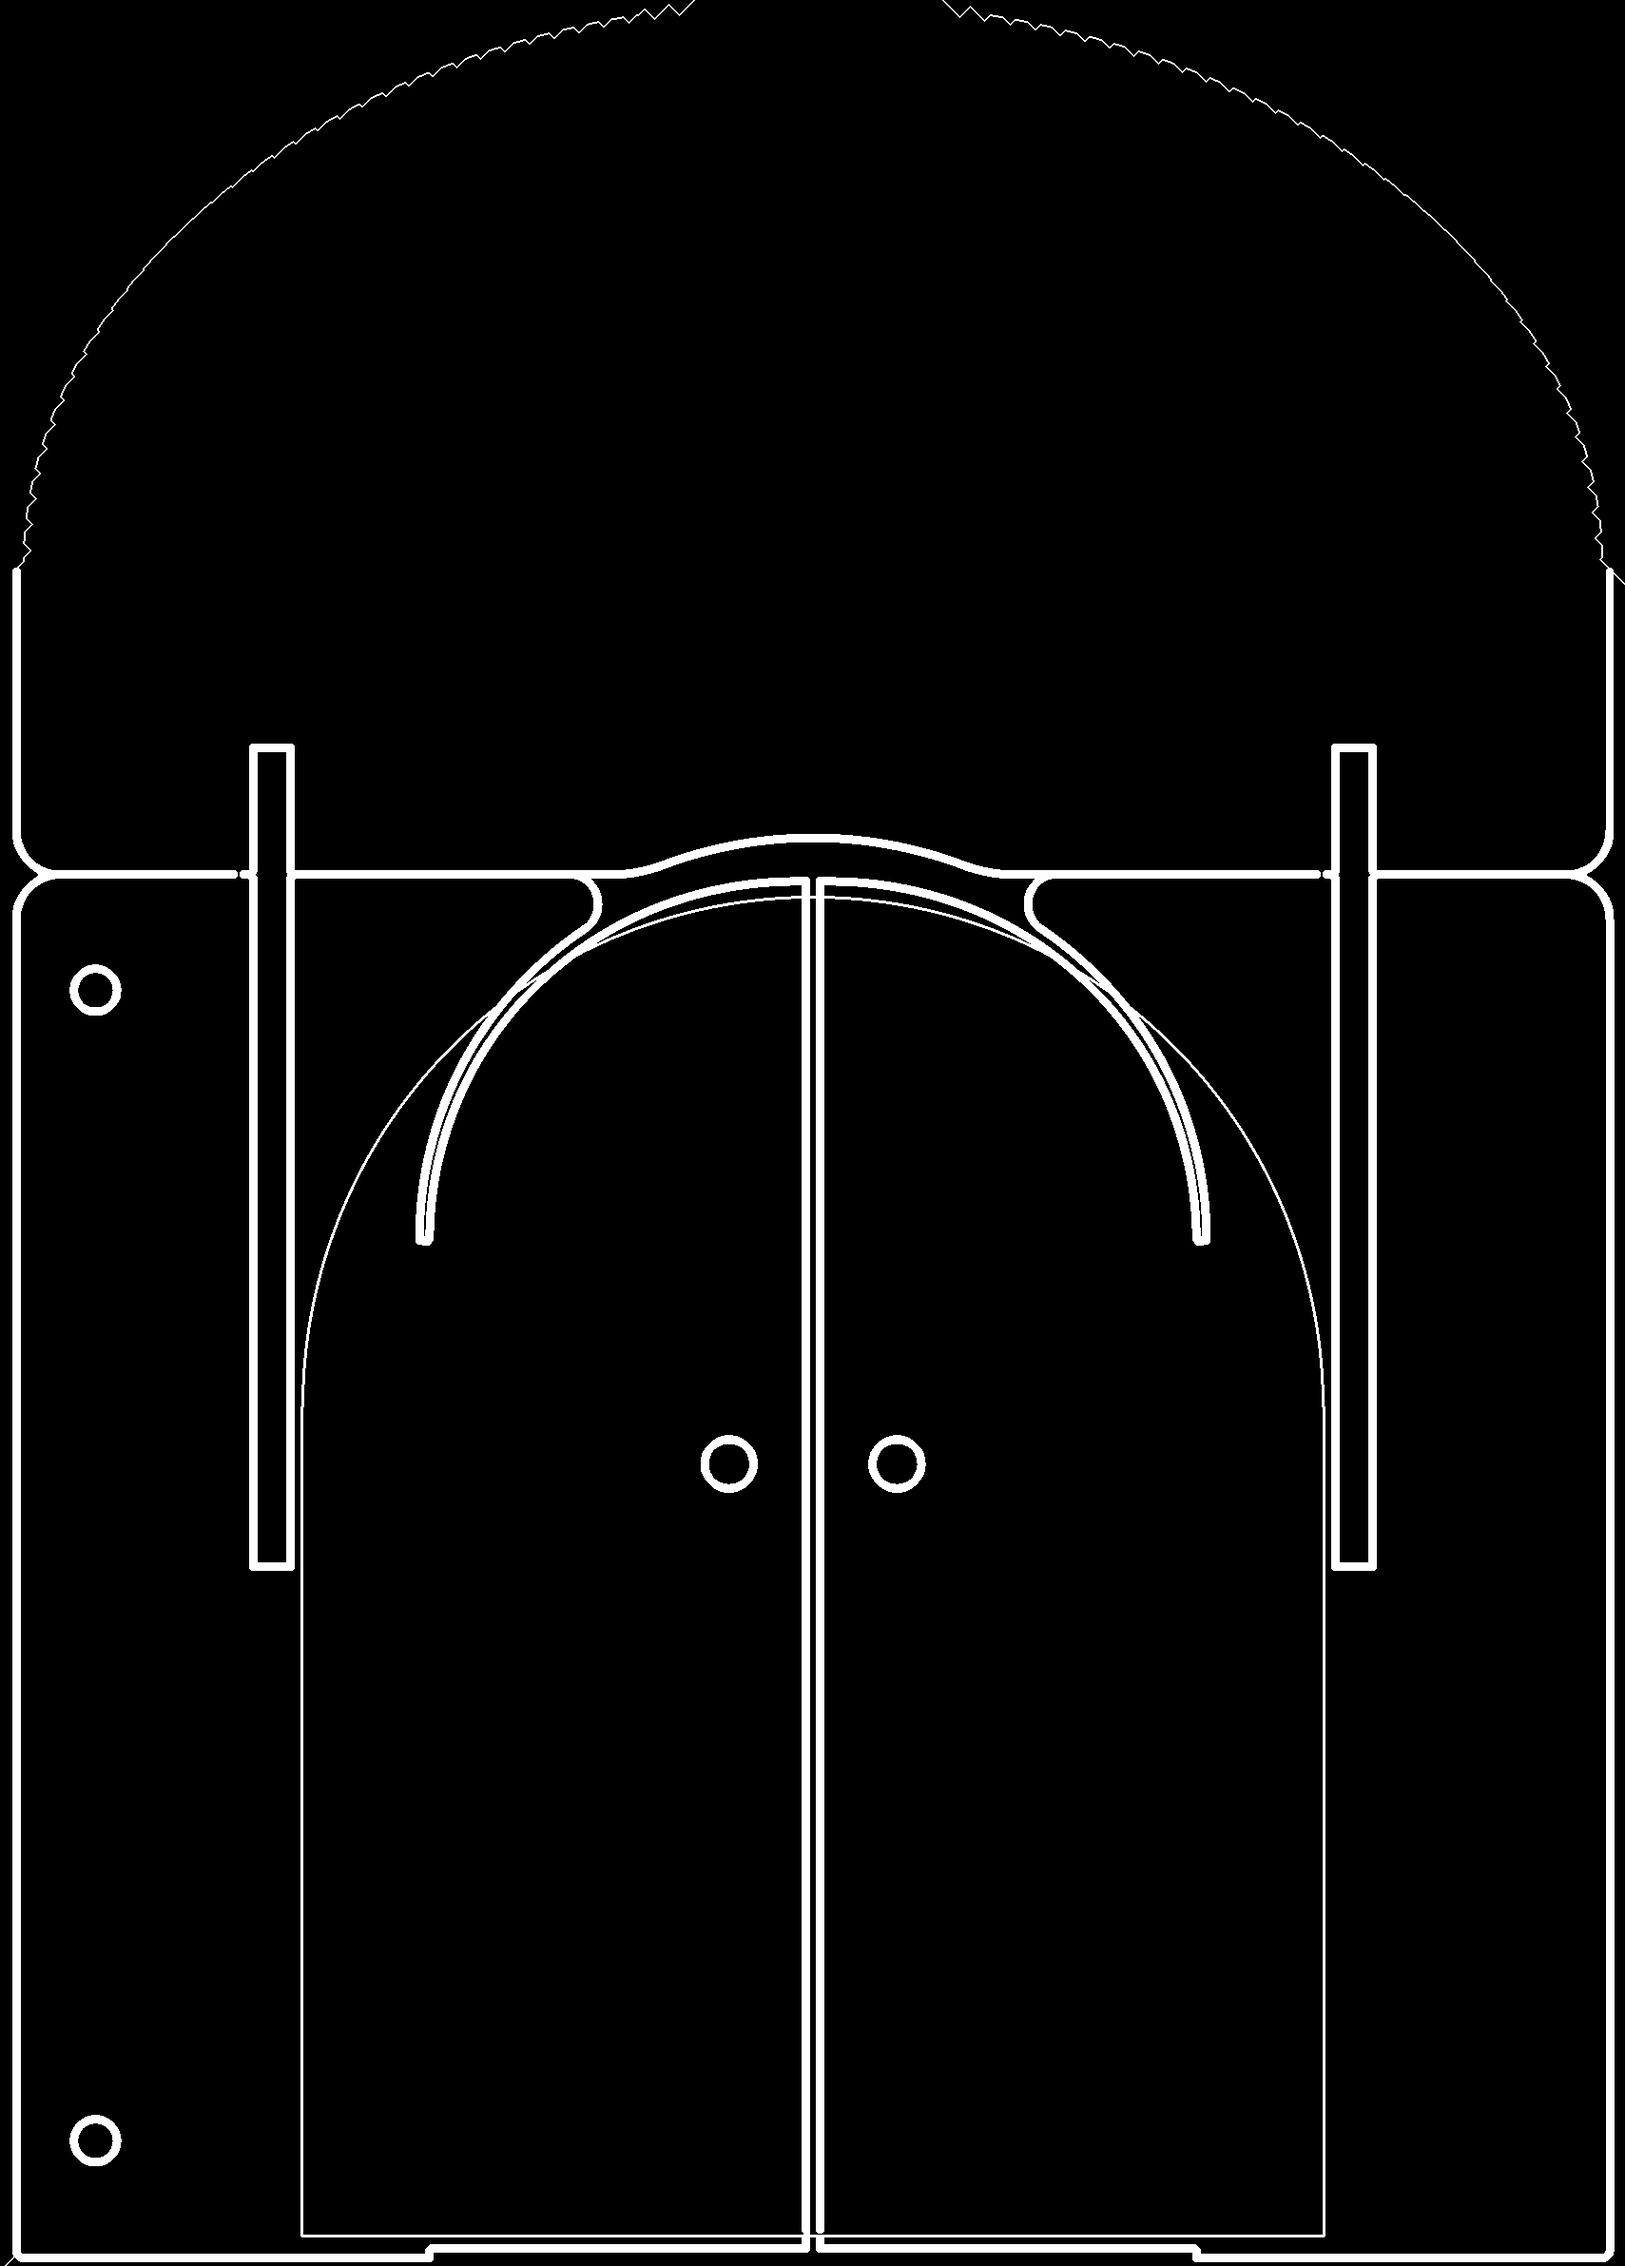
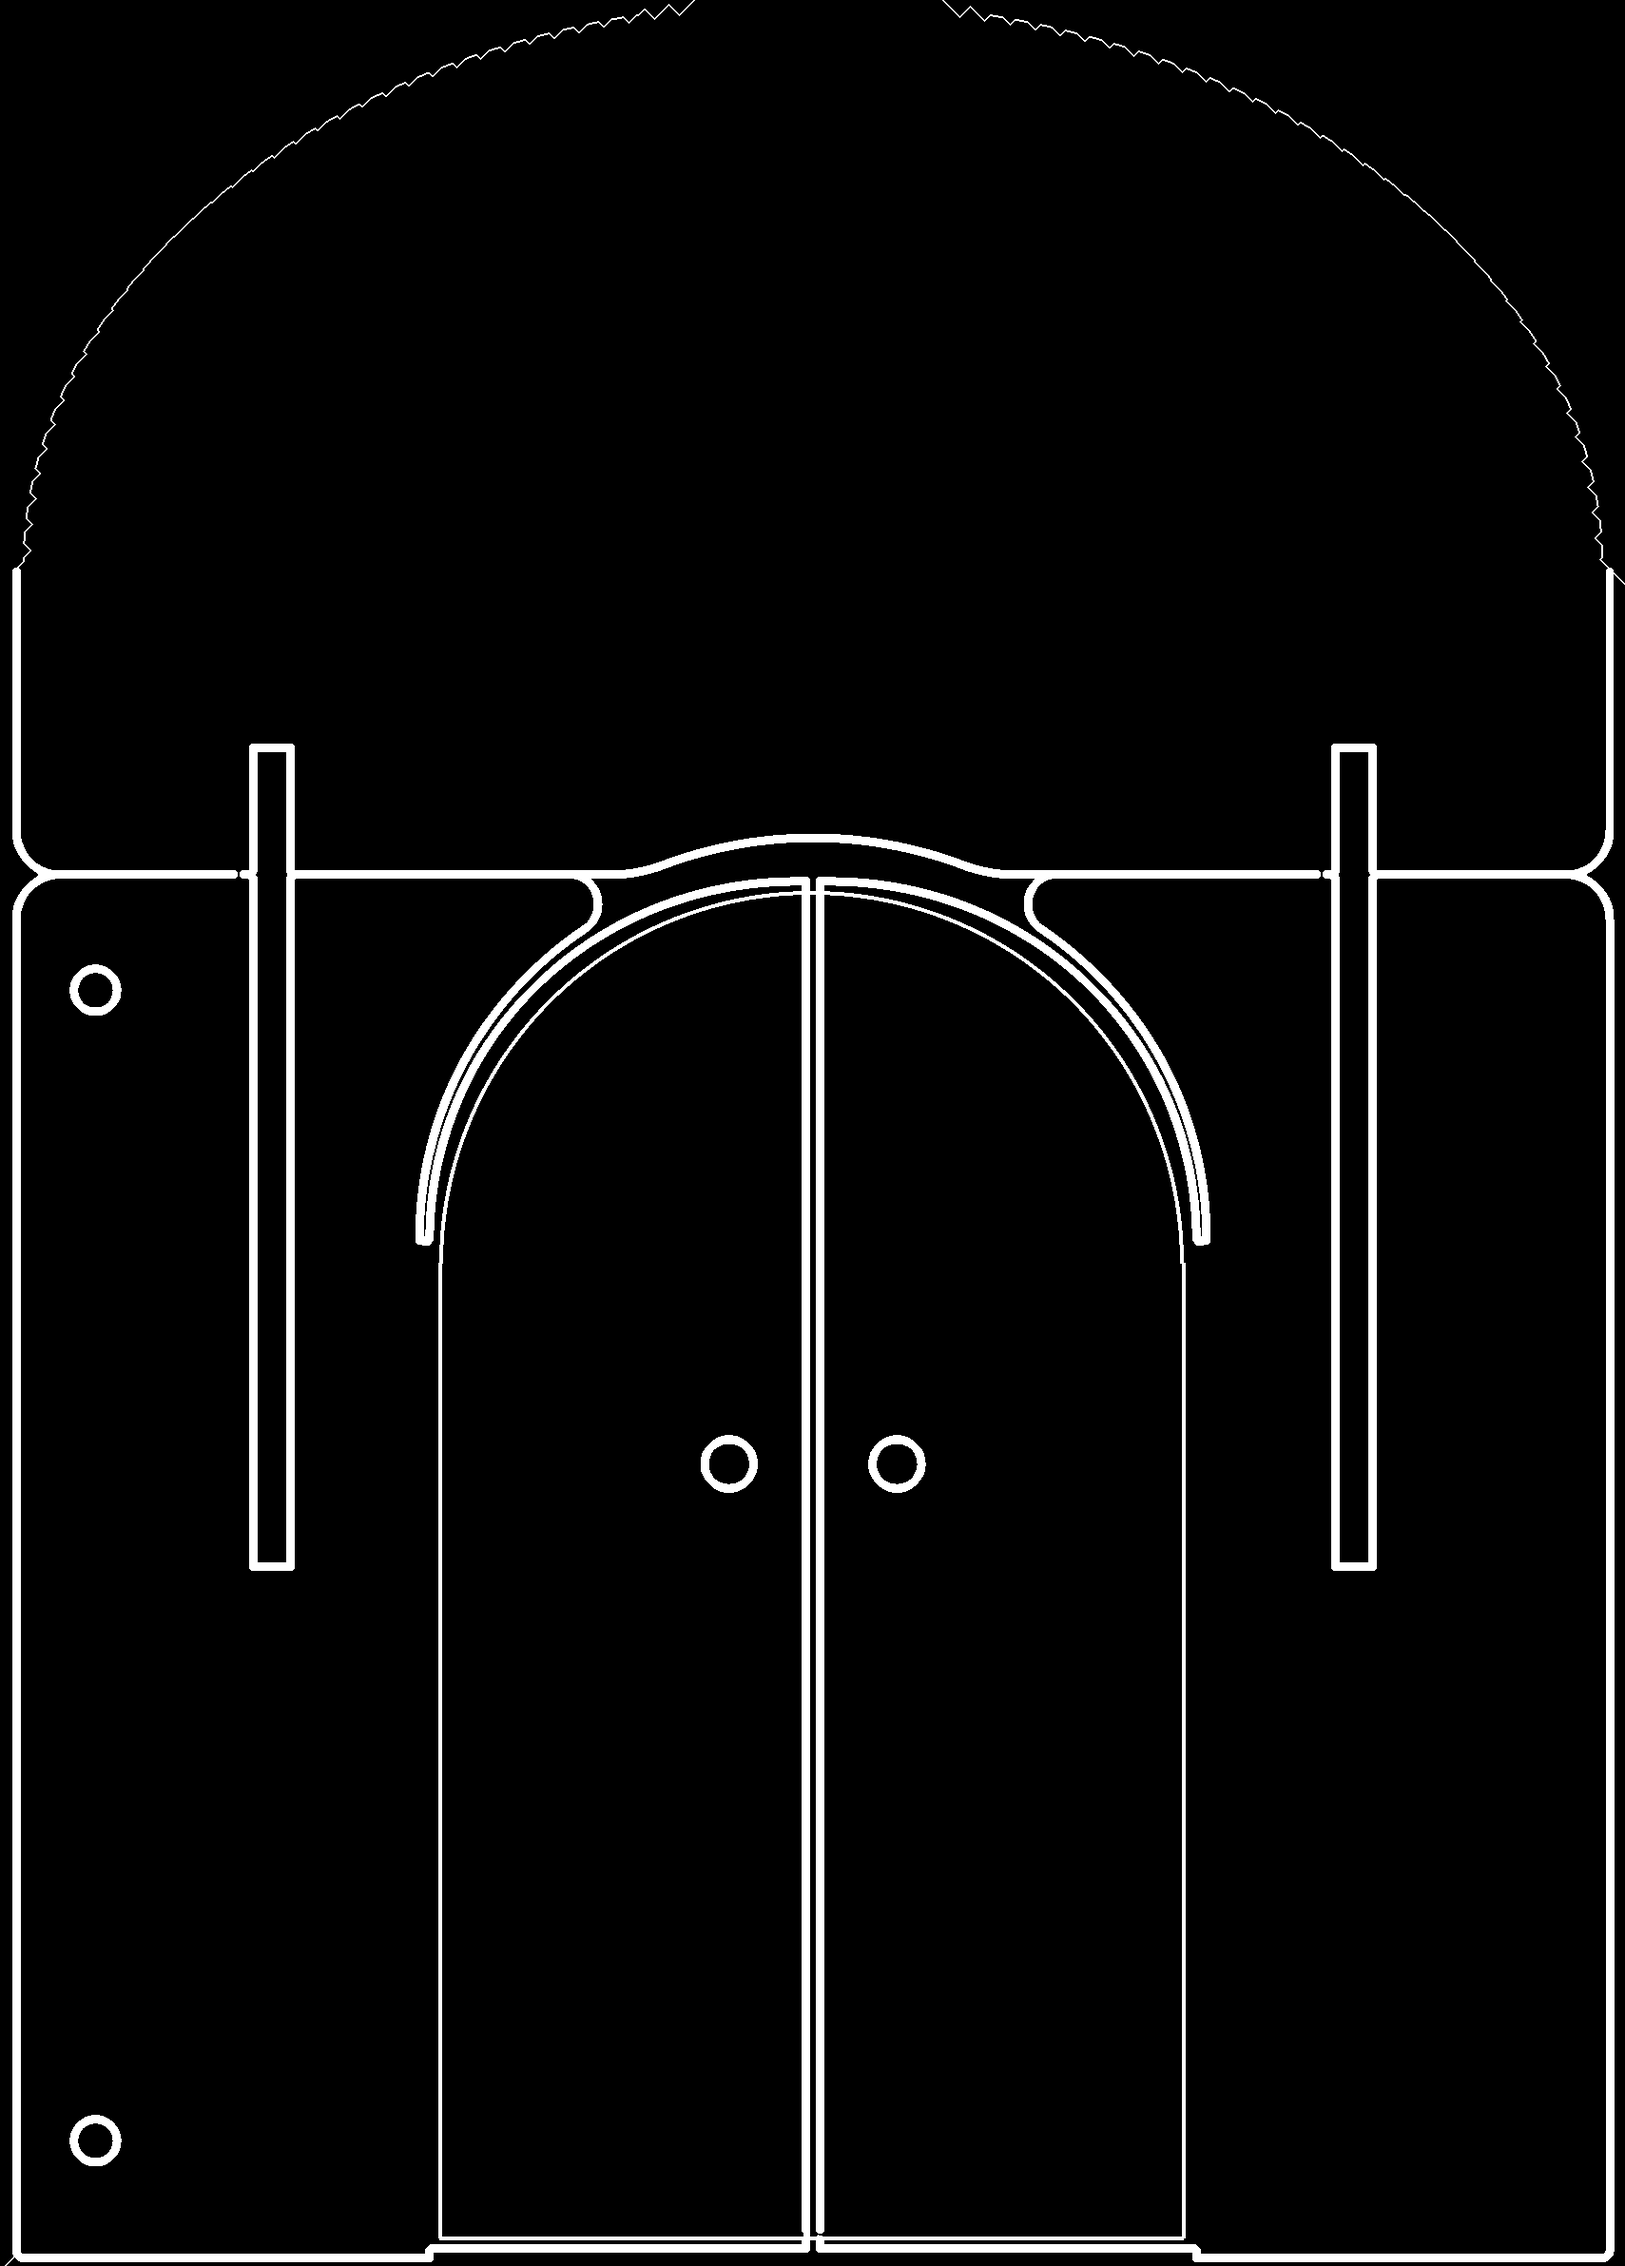
true door anchor: trace the template's orange path, not a synthetic bbox arch
r16c root cause: master_spec.py's dash-fix substituted an invented
bbox+semicircle anchor, inflated by stray edge dashes (x 0.186-0.815 vs true
0.263-0.736); all rounds since r13 generated AND validated against it.
Now: largest connected orange component + analytic arc/line fit, verified
pixel-on-pixel vs the template (anchor-verify.png). Binding rule added:
reconstructed geometry must be source-verified before use.

diff --git a/scripts/master_spec.py b/scripts/master_spec.py
@@ -176,21 +176,36 @@ def build(render_path, census_path, scale_pct, outdir):
         outer_edge = body_smooth & ~(~_dilate(~body_smooth, 2))
         ctrl = _dilate(black_cut, 2) | outer_edge
         if name == "door":
-            # orange door anchor is dashed — never trace its pixels (dash leak).
-            # Draw a synthetic SOLID arch from the anchor's percentile bbox:
-            # straight sides + semicircular top, 3px stroke.
-            oy, ox = np.where(col["orange"][cy0:cy1])
-            if len(ox) > 50:
+            # orange door anchor: trace the TRUE dashed path (r16c incident —
+            # a synthetic bbox+semicircle arch was WIDER than the template's
+            # real shape because stray orange dashes near the panel edges
+            # inflated the percentile bbox). Method: close the dashes into one
+            # curve, keep the LARGEST connected component only (strays are
+            # small), then fill its closed outline and take the boundary.
+            oz = col["orange"][cy0:cy1]
+            if oz.sum() > 50:
+                # keep the largest connected orange structure (strays are small)
+                main = components(_dilate(oz, 30))[0]
+                opix = main & _dilate(oz, 2)
+                oy2, ox2 = np.where(opix)
+                # ANALYTIC fit (morphological smoothing of a thin traced path
+                # proved unstable): measure sides + crown from the pixels, draw
+                # a clean arc + straight sides at the TRUE positions.
+                y_top, y_bot = int(oy2.min()), int(oy2.max())
+                lower = oy2 > (y_top + (y_bot - y_top) * 0.55)
+                xL = int(np.median([ox2[lower & (ox2 < np.median(ox2))].min()
+                                    if (lower & (ox2 < np.median(ox2))).any() else ox2.min()]))
+                xL = int(np.percentile(ox2[lower], 1))
+                xR = int(np.percentile(ox2[lower], 99))
+                r_true = (xR - xL) / 2.0
+                spring_y = y_top + r_true               # crown at y_top
                 from PIL import ImageDraw
-                x0o, x1o = int(np.percentile(ox, 2)), int(np.percentile(ox, 98))
-                y0o, y1o = int(np.percentile(oy, 2)), int(np.percentile(oy, 98))
                 arch = Image.new("L", (cut.shape[1], cut.shape[0]), 0)
                 dr = ImageDraw.Draw(arch)
-                r = (x1o - x0o) // 2
-                dr.arc([x0o, y0o, x1o, y0o + 2 * r], 180, 360, fill=255, width=3)
-                dr.line([x0o, y0o + r, x0o, y1o], fill=255, width=3)
-                dr.line([x1o, y0o + r, x1o, y1o], fill=255, width=3)
-                dr.line([x0o, y1o, x1o, y1o], fill=255, width=3)
+                dr.arc([xL, y_top, xR, int(y_top + 2 * r_true)], 180, 360, fill=255, width=4)
+                dr.line([xL, int(spring_y), xL, y_bot], fill=255, width=4)
+                dr.line([xR, int(spring_y), xR, y_bot], fill=255, width=4)
+                dr.line([xL, y_bot, xR, y_bot], fill=255, width=4)
                 ctrl = ctrl | (np.array(arch) > 127)
         forb = col["red"][cy0:cy1]
         # forbidden stripes as filled boxes (dashes -> solid): per connected x-band
@@ -219,13 +234,14 @@ def build(render_path, census_path, scale_pct, outdir):
             "green_top_frac": _zone_frac(col["green"][max(rows.min()-int(1200*px_per_pt),0):cy1], pw),
         }
         if name == "door":
-            oy, ox = np.where(col["orange"][cy0:cy1])
-            if len(ox) > 50:
-                # percentile bbox: robust against stray anti-aliased pixels
-                x0o, x1o = np.percentile(ox, 2), np.percentile(ox, 98)
-                y0o, y1o = np.percentile(oy, 2), np.percentile(oy, 98)
-                spec["door_anchor_frac"] = [round(x0o/pw, 4), round(y0o/ph, 4),
-                                            round(x1o/pw, 4), round(y1o/ph, 4)]
+            # anchor bbox from the LARGEST connected orange structure only —
+            # global percentiles spanned stray edge dashes (r16c incident)
+            oz2 = col["orange"][cy0:cy1]
+            if oz2.sum() > 50:
+                main2 = components(_dilate(oz2, 30))[0]
+                oy, ox = np.where(main2 & _dilate(oz2, 2))
+                spec["door_anchor_frac"] = [round(ox.min()/pw, 4), round(oy.min()/ph, 4),
+                                            round(ox.max()/pw, 4), round(oy.max()/ph, 4)]
         json.dump(spec, open(outdir / f"{name}-spec.json", "w"), indent=1)
         report[name] = spec
     return report

diff --git a/skills/studio-executor/geometry-executor/SKILL.md b/skills/studio-executor/geometry-executor/SKILL.md
@@ -53,3 +53,16 @@ builder (see scripts/master_spec.py for the reference implementation):
   kill dash scallops), never the raw dash-bridged arc.
 - Never trace dashed anchor shapes — draw a SYNTHETIC solid outline from the
   anchor's percentile bbox (arch = straight sides + semicircle top).
+
+## Verify synthetic geometry against source pixels (2026-07-05, r16c incident — binding)
+
+If a control-map element is RECONSTRUCTED (dashed anchor → solid path, closed
+dome, synthetic shape), it MUST be verified pixel-on-pixel against the source
+template render BEFORE any generation uses it: overlay the reconstruction on
+the raw classified pixels (e.g. scratchpad/anchor-verify.png pattern) and eyeball
+coincidence. The r16c incident: a synthetic bbox+semicircle anchor was ~35%
+wider than the template's true orange path (stray dashes inflated the bbox);
+three rounds generated + validated against the invented shape — circular
+validation. Reconstruction rules: largest connected component only (excludes
+stray dashes), then ANALYTIC fit (arc + lines at measured positions) — NOT
+morphological smoothing of thin paths (beads or erases).
